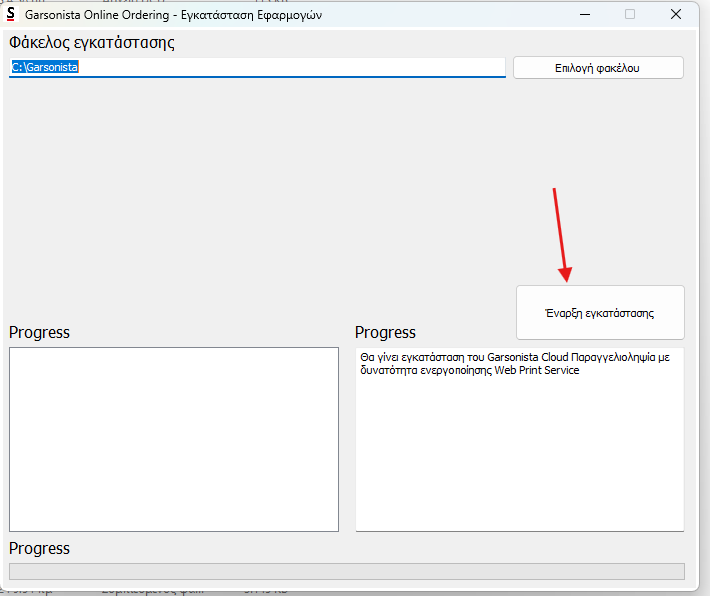
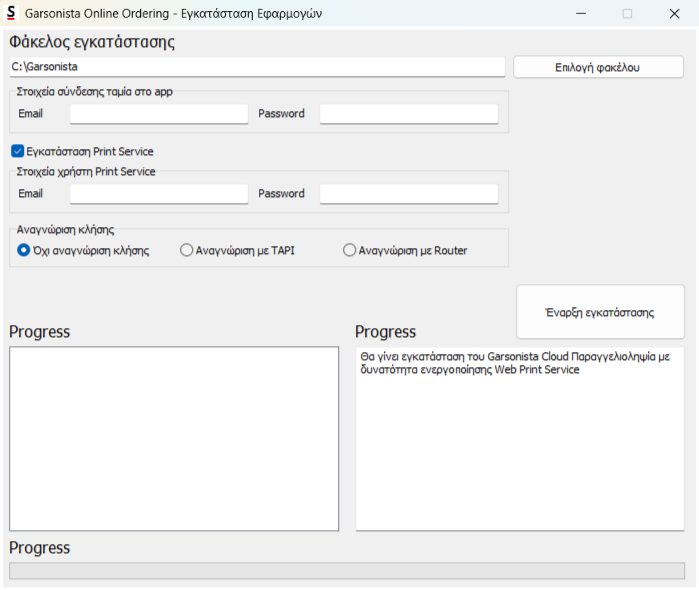
Sync από garsonista_web_app@a3641969 (dev)

diff --git a/GARSONISTA_INSTALLATION.md b/GARSONISTA_INSTALLATION.md
@@ -42,15 +42,70 @@
    Εφαρμογών»**:
    - **«Φάκελος εγκατάστασης»**: προτεινόμενος ο `C:\Garsonista` — άφησέ τον
      ως έχει (ή άλλαξέ τον με το κουμπί **«Επιλογή φακέλου»** αν χρειάζεται).
+   - **«Στοιχεία σύνδεσης ταμία στο app»** (προαιρετικό): «Email» και
+     «Password» του χρήστη που θα δουλεύει **πάντα** σε αυτό το PC (π.χ.
+     «Ταμείο 1»). Αν τα συμπληρώσεις, η εφαρμογή θα ξανασυνδέεται μόνη της
+     όταν λήξει η σύνδεση (αυτόματη επανασύνδεση — δες την παρατήρηση στην §4).
+     **Άφησέ τα κενά** σε PC όπου αλλάζουν χρήστες.
+   - **«Εγκατάσταση Print Service»**: τσέκαρέ το όταν σε αυτό το PC θα τρέχουν
+     οι εκτυπώσεις του **Web Print Service**. Μόλις το τσεκάρεις εμφανίζεται από
+     κάτω το **«Στοιχεία χρήστη Print Service»** με «Email» και «Password» του
+     χρήστη του Web Print Service — δεν είναι υποχρεωτικά (αν μείνουν κενά,
+     συνδέεσαι χειροκίνητα την πρώτη φορά). Τι ακριβώς στήνει: §3.1.
+   - **«Αναγνώριση κλήσης»**: «Όχι αναγνώριση κλήσης», «Αναγνώριση με TAPI»
+     (τηλεφωνικό κέντρο) ή «Αναγνώριση με Router» (Fritzbox / Oxygen) — δες
+     §3.2.
    - Στο δεξί πλαίσιο Progress γράφει τι θα γίνει: «Θα γίνει εγκατάσταση του
      Garsonista Cloud Παραγγελιοληψία με δυνατότητα ενεργοποίησης Web Print
      Service».
 4. Πάτησε **«Έναρξη εγκατάστασης»**:
 
-   ![Παράθυρο εγκατάστασης: φάκελος C:\Garsonista και κουμπί «Έναρξη εγκατάστασης»](images/installation/installer_window.png)
+   ![Παράθυρο εγκατάστασης: φάκελος C:\Garsonista, «Στοιχεία σύνδεσης ταμία στο app», τσεκαρισμένο «Εγκατάσταση Print Service» με «Στοιχεία χρήστη Print Service», «Αναγνώριση κλήσης» και κουμπί «Έναρξη εγκατάστασης»](images/installation/installer_window.png)
 
 5. Περίμενε να ολοκληρωθεί η πρόοδος (τα πλαίσια Progress γεμίζουν με τα
-   βήματα/αρχεία). Αυτό ήταν — η εγκατάσταση ολοκληρώθηκε.
+   βήματα/αρχεία). Αυτό ήταν — η εγκατάσταση ολοκληρώθηκε. Στην επιφάνεια
+   εργασίας υπάρχει η συντόμευση **«Garsonista»** (και, ανάλογα με τις
+   επιλογές σου, **«Print Service»**, **«TapiCallerID»** ή **«PhoneCalls»**).
+
+### 3.1 Τι κάνει το «Εγκατάσταση Print Service»
+
+Στήνει στο ίδιο PC **δεύτερο, ξεχωριστό** Garsonista μόνο για τις εκτυπώσεις,
+ώστε το ταμείο και το Web Print Service να δουλεύουν παράλληλα:
+
+- Φτιάχνει τον φάκελο **`garsonista_app_print_service`** μέσα στον φάκελο
+  εγκατάστασης (δίπλα στο `garsonista_app` του ταμείου). Το αντίγραφο **δεν
+  παίρνει** τη σύνδεση ούτε τα στοιχεία του ταμία.
+- Το ρυθμίζει να τρέχει **κρυμμένο στο εικονίδιο δίπλα στο ρολόι** — βλ.
+  [WEB_PRINT_SERVICE.md](WEB_PRINT_SERVICE.md) §2.7. Αν έδωσες «Στοιχεία
+  χρήστη Print Service», συνδέεται και ξανασυνδέεται μόνο του (§2.8 του ίδιου
+  εγχειριδίου).
+- Φτιάχνει συντόμευση **«Print Service»** στην **επιφάνεια εργασίας** και στην
+  **εκκίνηση των Windows**, ώστε να ανοίγει μόνο του σε κάθε άνοιγμα του PC.
+
+> Επειδή τρέχει στο εικονίδιο δίπλα στο ρολόι, το **X δεν κλείνει** το Print
+> Service — για να κλείσει: δεξί κλικ στο εικονίδιο → **«Έξοδος»**.
+
+Η **ενεργοποίηση** του Web Print Service στο adminpanel γίνεται ξεχωριστά (§4).
+
+### 3.2 Αναγνώριση κλήσης από τον installer
+
+| Επιλογή | Τι κάνει ο installer |
+|---|---|
+| «Όχι αναγνώριση κλήσης» | Τίποτα. |
+| «Αναγνώριση με TAPI» | Συντόμευση **«TapiCallerID»** στην επιφάνεια εργασίας και στην εκκίνηση των Windows. |
+| «Αναγνώριση με Router» | Συντόμευση **«PhoneCalls»** στην επιφάνεια εργασίας και στην εκκίνηση των Windows. |
+
+- Αν τσέκαρες και **«Εγκατάσταση Print Service»**, οι συντομεύσεις δείχνουν
+  στο πρόγραμμα αναγνώρισης του φακέλου του **Print Service**· αλλιώς στου
+  ταμείου (`garsonista_app`).
+- Ο installer φτιάχνει **μόνο τις συντομεύσεις**. Οι υπόλοιπες ρυθμίσεις
+  (ενεργοποίηση στο adminpanel, Fritzbox / IP router / αριθμός σταθερού,
+  driver του τηλεφωνικού κέντρου, παράθυρο του TapiCallerID) γίνονται όπως στο
+  εγχειρίδιο [CALLER_ID.md](CALLER_ID.md) — το βήμα της συντόμευσης εκεί το
+  παραλείπεις.
+- Αν το πρόγραμμα αναγνώρισης δεν υπάρχει στον φάκελο, ο installer βγάζει
+  μήνυμα **«Δεν βρέθηκε το αρχείο …»** και δεν φτιάχνει τη συντόμευση — δες
+  §5.
 
 ---
 
@@ -75,6 +130,8 @@
 > γυρίσει στη φόρμα σύνδεσης: γράφεις μία φορά το όνομα χρήστη και τον κωδικό στις
 > γραμμές `email=` / `password=` του `defparams.txt` (φάκελος εγκατάστασης), ξανανοίγεις
 > το πρόγραμμα, και αυτό τα φυλάει κρυπτογραφημένα και τα σβήνει από το `defparams.txt`.
+> Σε νέα εγκατάσταση τα γράφει ο ίδιος ο installer από τα «Στοιχεία σύνδεσης ταμία στο
+> app» (§3).
 > Δεν αφορά μόνο το PC του Web Print Service: βολεύει σε **κάθε PC ταμείου που μένει
 > πάντα συνδεδεμένο με τον ίδιο χρήστη** (π.χ. «Ταμείο 1» στο ίδιο PC κάθε μέρα), ώστε
 > το προσωπικό να μη χρειάζεται να ξαναβάζει κωδικό όταν λήγει η σύνδεση. **Μην** το
@@ -95,6 +152,9 @@
 | Διπλό κλικ στο zip και «δεν τρέχει τίποτα» | Το exe εκτελέστηκε μέσα από το zip χωρίς αποσυμπίεση | Κάνε πρώτα **«Εξαγωγή όλων…»** και τρέξε το exe από τον αποσυμπιεσμένο φάκελο |
 | Η εγκατάσταση κόλλησε χωρίς πρόοδο | Διακοπή σύνδεσης internet | Έλεγξε τη σύνδεση, κλείσε το παράθυρο και ξανατρέξε τον installer — είναι ασφαλές να επαναληφθεί |
 | Το προσωπικό ξαναβάζει συνέχεια κωδικό στο ίδιο PC ταμείου (λήγει η σύνδεση) | Η σύνδεση του χρήστη λήγει κάθε τόσο | **[ΤΕΧΝΙΚΟΣ]** αν το PC είναι πάντα με τον ίδιο χρήστη, στήσε την αυτόματη επανασύνδεση (παρατήρηση στην §4, [WEB_PRINT_SERVICE.md](WEB_PRINT_SERVICE.md) §2.8) |
+| Μήνυμα «Δεν βρέθηκε το αρχείο "…TapiCallerID.exe"» ή «…PhoneCalls.exe» στο τέλος της εγκατάστασης | Το πρόγραμμα αναγνώρισης δεν υπάρχει στον φάκελο του Garsonista | Η υπόλοιπη εγκατάσταση έχει γίνει κανονικά. Βάλε το πρόγραμμα στον φάκελο και φτιάξε τις συντομεύσεις με το χέρι, όπως στο [CALLER_ID.md](CALLER_ID.md) (Μέθοδος Β ή Γ) |
+| Τσέκαρα «Εγκατάσταση Print Service» αλλά δεν βλέπω το παράθυρό του | Τρέχει κρυμμένο στο εικονίδιο δίπλα στο ρολόι — κανονικό | Κλικ στο εικονίδιο του Garsonista δίπλα στο ρολόι (ή στο βελάκι **^**)· βλ. [WEB_PRINT_SERVICE.md](WEB_PRINT_SERVICE.md) §2.7 |
+| Μήνυμα «Σφάλμα στην αντιγραφή του φακέλου …garsonista_app_print_service» | Το Print Service ήταν ανοιχτό (επανεγκατάσταση) ή το antivirus κράτησε αρχεία | Κλείσε το Print Service (δεξί κλικ στο εικονίδιο → «Έξοδος») και ξανατρέξε τον installer |
 | Μετά την εγκατάσταση η ταμειακή δείχνει «σφάλμα σύνδεσης» / δεν φορτώνει, ενώ το internet του PC δουλεύει | Το default endpoint δεν «βρίσκεται» προσωρινά (DNS — συχνό σε Starlink ή κοινόχρηστη public IP) | «Ρυθμίσεις» → «Εναλλαγή στο second endpoint» (χωρίς κωδικό) — βλ. [BACKUP_ENDPOINTS.md](BACKUP_ENDPOINTS.md) |
 
 ---
@@ -108,7 +168,15 @@
   υπάρχει λόγος — τα υπόλοιπα εγχειρίδια (Web Print Service, Caller ID) τον
   θεωρούν δεδομένο.
 - **Επανεγκατάσταση/ενημέρωση**: ξανατρέχεις τον installer με τον ίδιο
-  φάκελο εγκατάστασης.
+  φάκελο εγκατάστασης. Κλείσε πρώτα το Garsonista και το Print Service
+  («Έξοδος» από το εικονίδιο δίπλα στο ρολόι).
+- **Τι γράφει ο installer στο `defparams.txt`**: στο `garsonista_app` τα
+  `email=` / `password=` του ταμία (μόνο ό,τι συμπληρώθηκε)· στο
+  `garsonista_app_print_service` τα `email=` / `password=` του χρήστη Print
+  Service και `tray_mode=1`. Όλες οι άλλες γραμμές μένουν ως έχουν.
+- **Συντομεύσεις** που μπορεί να φτιάξει: «Garsonista» (επιφάνεια εργασίας)·
+  «Print Service», «TapiCallerID», «PhoneCalls» (επιφάνεια εργασίας **και**
+  εκκίνηση των Windows — `shell:startup`).
 - Ο installer διανέμεται από τη σελίδα
   [Releases](https://github.com/semantic-software/garsonista_user_manuals/releases/tag/installer)
   του repo των εγχειριδίων — πάντα από εκεί, όχι από τοπικά αντίγραφα που

diff --git a/CALLER_ID.md b/CALLER_ID.md
@@ -104,6 +104,9 @@
    Windows. Μία ακόμη συντόμευση βάζουμε και στην **επιφάνεια εργασίας**.
    - Για να ανοίξουμε τον φάκελο startup: **{Windows}+{R}** → γράφουμε
      **`shell:startup`** → Enter — και ρίχνουμε εκεί μέσα τη συντόμευση.
+   - Αν στην εγκατάσταση επιλέχθηκε **«Αναγνώριση με Router»**, τις δύο
+     συντομεύσεις τις έχει φτιάξει ήδη ο installer
+     ([GARSONISTA_INSTALLATION.md](GARSONISTA_INSTALLATION.md) §3.2).
 
 ---
 
@@ -131,7 +134,9 @@
 5. **Δοκιμή:** με ανοιχτό το Garsonista πατάμε **«Δοκιμή»** → πρέπει να βγει η κάρτα «Εισερχόμενη
    κλήση» με τον αριθμό `6900000000`. Μετά κάνουμε μια πραγματική κλήση στο κατάστημα.
 6. Δημιουργούμε **συντόμευση του `TapiCallerID.exe`** στον φάκελο **startup** (`shell:startup`) και
-   μία στην **επιφάνεια εργασίας**, όπως στη Μέθοδο Β.
+   μία στην **επιφάνεια εργασίας**, όπως στη Μέθοδο Β. Αν στην εγκατάσταση επιλέχθηκε **«Αναγνώριση
+   με TAPI»**, τις έχει φτιάξει ήδη ο installer
+   ([GARSONISTA_INSTALLATION.md](GARSONISTA_INSTALLATION.md) §3.2).
 
 Καλό να ξέρεις:
 

diff --git a/WEB_PRINT_SERVICE.md b/WEB_PRINT_SERVICE.md
@@ -195,6 +195,12 @@ print service.
 Για να μπαίνει μόνο του και στην εκκίνηση των Windows, βάλε συντόμευση του
 προγράμματος στον φάκελο εκκίνησης των Windows (όπως και πριν).
 
+Σε νέο PC όλα αυτά τα στήνει ο installer με το **«Εγκατάσταση Print Service»**:
+ξεχωριστό αντίγραφο του προγράμματος για τις εκτυπώσεις, ρυθμισμένο για tray, με
+συντόμευση «Print Service» στην επιφάνεια εργασίας και στην εκκίνηση των Windows,
+και προαιρετικά τα στοιχεία χρήστη για την αυτόματη επανασύνδεση (§2.8) — βλ.
+[GARSONISTA_INSTALLATION.md](GARSONISTA_INSTALLATION.md) §3.1.
+
 ### 2.8 Αυτόματη επανασύνδεση (relogin) [ΤΕΧΝΙΚΟΣ]
 
 Κάθε τόσο η σύνδεση του χρήστη λήγει και η σελίδα γυρίζει στη φόρμα σύνδεσης. Σε
